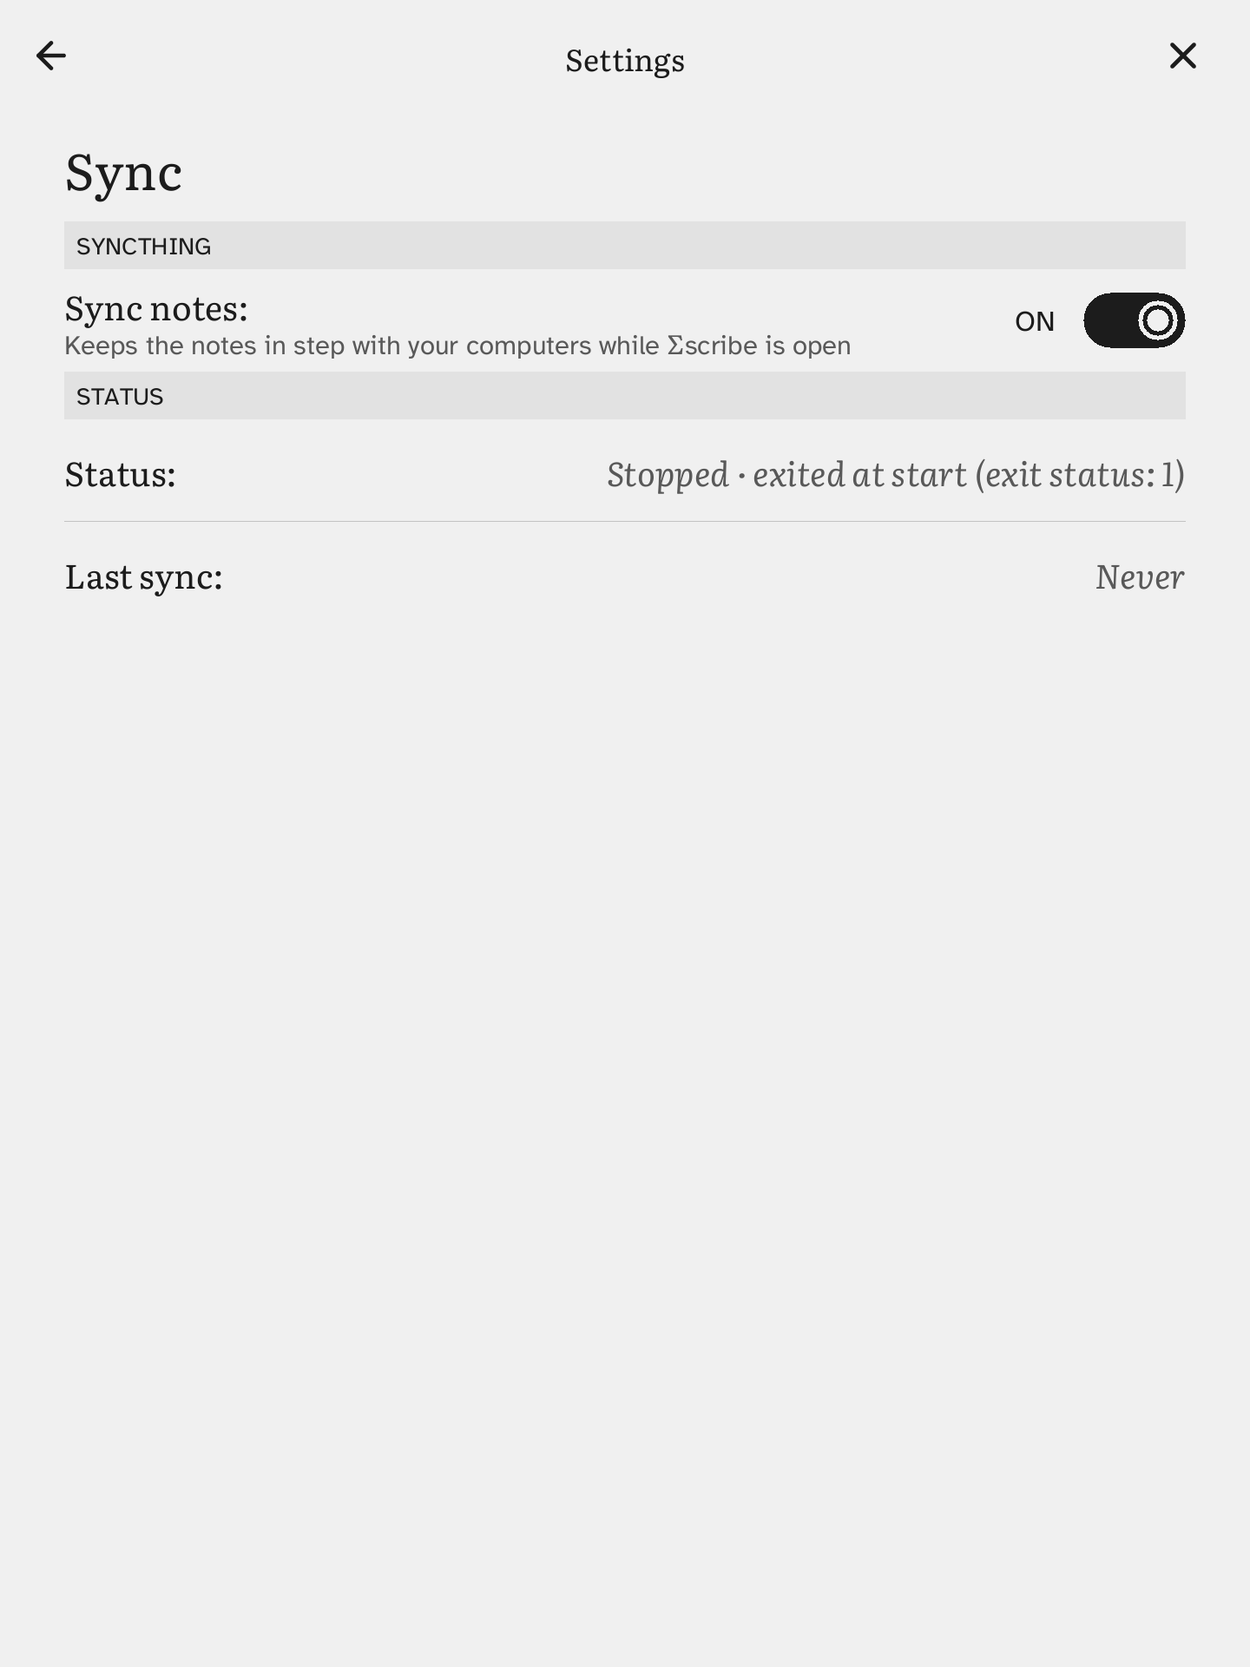
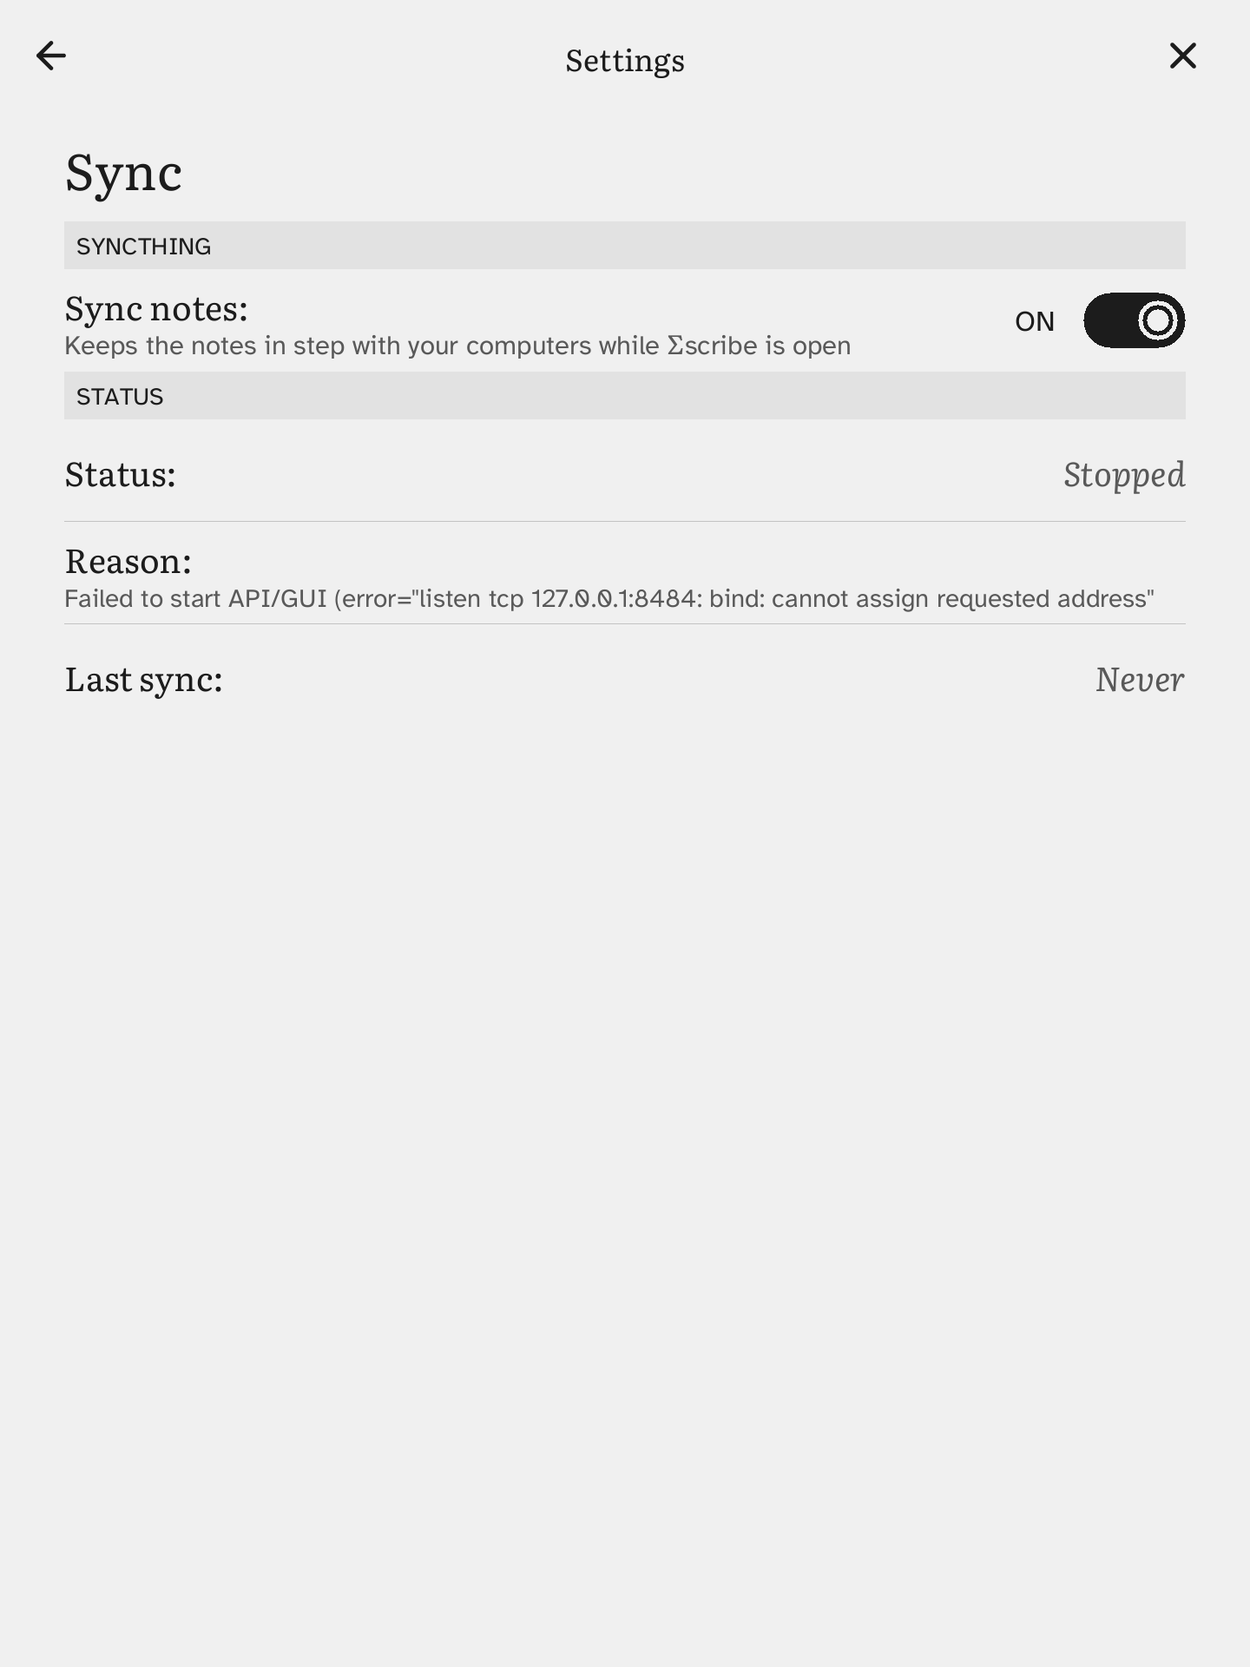
Sync: bring loopback up, say when it is down, show why Syncthing stopped
On the Forma, with Nickel stopped, lo has no 127.0.0.1, so Syncthing
could not bind its local API ("cannot assign requested address") and
Settings -> Sync ended at "Stopped · exited at start".

- launch.sh gives lo 127.0.0.1 when it has none (ifconfig, else ip) and
  logs net: lo lines; it never takes it down.
- The supervisor tries to bind 127.0.0.1 before each start; if it cannot
  it does not start Syncthing, reports "Loopback network is down" and
  looks again every 15 s.
- When Syncthing exits, the last ERR line it logged during that start is
  shown on a Reason row under Status.
- Two strings in the nine catalogs; tests for both; docs/sync.md and
  CHANGELOG updated.

diff --git a/crates/core/src/sync/supervisor.rs b/crates/core/src/sync/supervisor.rs
@@ -49,6 +49,17 @@ pub struct Config {
     /// child of its own, which a kill of the parent would leave behind. Only
     /// for the Kobo; on a desktop it could end the reader's own Syncthing.
     pub kill_by_name: bool,
+    /// Whether 127.0.0.1 can be bound; checked before every start. Tests
+    /// replace it.
+    pub loopback_probe: fn() -> bool,
+}
+
+/// Whether a socket can be bound on 127.0.0.1. On the Kobo the loopback
+/// interface is down unless the launcher brings it up; Syncthing then dies at
+/// start with "cannot assign requested address".
+#[must_use]
+pub fn loopback_up() -> bool {
+    std::net::TcpListener::bind((std::net::Ipv4Addr::LOCALHOST, 0)).is_ok()
 }
 
 impl Config {
@@ -65,6 +76,7 @@ impl Config {
             stop_wait: Duration::from_secs(8),
             retry_wait: Duration::from_secs(15),
             kill_by_name: false,
+            loopback_probe: loopback_up,
         }
     }
 }
@@ -225,6 +237,22 @@ fn worker(cfg: &Config, sh: &Shared, rx: &Receiver<Msg>) {
     }
     let mut failures = 0u32;
     loop {
+        // No point starting what cannot listen: say why, and look again in
+        // a while (it costs nothing and a later fix needs no restart).
+        if !(cfg.loopback_probe)() {
+            crate::warn!(
+                "sync",
+                "127.0.0.1 cannot be bound: the loopback network is down"
+            );
+            sh.put(View {
+                run: Run::NoLoopback,
+                ..View::default()
+            });
+            if wait_or_stop(rx, cfg.retry_wait) {
+                return;
+            }
+            continue;
+        }
         sh.put(View {
             run: Run::Starting,
             ..View::default()
@@ -317,6 +345,8 @@ fn spawn(cfg: &Config, key: &str) -> io::Result<Child> {
 fn session(cfg: &Config, sh: &Shared, rx: &Receiver<Msg>) -> Ended {
     let key = random_key();
     let client = Client::new(cfg.port, &key);
+    // Only what Syncthing logs from now on says why this start failed.
+    let log_from = std::fs::metadata(&cfg.log_file).map_or(0, |m| m.len());
     let mut child = match spawn(cfg, &key) {
         Ok(c) => c,
         Err(e) => return Ended::Died(format!("cannot start: {e}")),
@@ -332,7 +362,11 @@ fn session(cfg: &Config, sh: &Shared, rx: &Receiver<Msg>) -> Ended {
             Ok(_) | Err(RecvTimeoutError::Timeout) => {}
         }
         if let Ok(Some(st)) = child.try_wait() {
-            return Ended::Died(format!("exited at start ({st})"));
+            return Ended::Died(with_reason(
+                format!("exited at start ({st})"),
+                &cfg.log_file,
+                log_from,
+            ));
         }
         if client.get_json("/rest/system/ping").is_ok() {
             break;
@@ -368,10 +402,50 @@ fn session(cfg: &Config, sh: &Shared, rx: &Receiver<Msg>) -> Ended {
             Ok(Msg::Poll) | Err(RecvTimeoutError::Timeout) => {}
         }
         if let Ok(Some(st)) = child.try_wait() {
-            return Ended::Died(format!("exited ({st})"));
+            return Ended::Died(with_reason(
+                format!("exited ({st})"),
+                &cfg.log_file,
+                log_from,
+            ));
         }
         poller.poll(cfg, &client, sh);
     }
+}
+
+/// The last error Syncthing logged after byte `from` of its log (the one
+/// that explains the exit), else `what`. The exit status goes to the log.
+fn with_reason(what: String, log: &Path, from: u64) -> String {
+    crate::warn!("sync", "{what}");
+    last_error(log, from).unwrap_or(what)
+}
+
+/// Longest reason shown on the Sync page.
+const REASON_MAX: usize = 110;
+
+/// The message of the last `ERR` line Syncthing wrote at or after byte
+/// `from` of `log` (a log that is shorter now was rotated: read it all).
+/// Only the tail is read. `2026-10-28 15:23:44 ERR Failed to start (…)`
+/// gives `Failed to start (…)`.
+#[must_use]
+pub fn last_error(log: &Path, from: u64) -> Option<String> {
+    use std::io::{Read, Seek, SeekFrom};
+    let mut f = std::fs::File::open(log).ok()?;
+    let len = f.metadata().ok()?.len();
+    let from = if from > len { 0 } else { from };
+    let start = from.max(len.saturating_sub(16 * 1024));
+    f.seek(SeekFrom::Start(start)).ok()?;
+    let mut raw = Vec::new();
+    f.take(16 * 1024).read_to_end(&mut raw).ok()?;
+    let text = String::from_utf8_lossy(&raw);
+    let line = text.lines().rev().find_map(|l| {
+        let i = l.find(" ERR ")?;
+        Some(l[i + 5..].trim())
+    })?;
+    let mut out: String = line.chars().take(REASON_MAX).collect();
+    if line.chars().count() > REASON_MAX {
+        out.push('…');
+    }
+    (!out.is_empty()).then_some(out)
 }
 
 /// Asks Syncthing to shut down; kills it when it does not.

diff --git a/crates/core/tests/sync_supervisor.rs b/crates/core/tests/sync_supervisor.rs
@@ -493,3 +493,74 @@ fn stopping_while_it_is_still_starting_does_not_wait_for_it() {
     assert!(!Path::new(&format!("/proc/{pid}")).exists());
     let _ = std::fs::remove_dir_all(&dir);
 }
+
+#[test]
+fn a_down_loopback_is_reported_and_nothing_is_started() {
+    let dir = tmp("noloop");
+    let pidfile = dir.join("pid");
+    let mut cfg = config(
+        &dir,
+        1,
+        &format!("echo $$ > {}\nexec sleep 120", pidfile.display()),
+    );
+    cfg.loopback_probe = || false;
+    let sup = Supervisor::start(cfg);
+    let v = until(&sup, "no loopback", |v| v.run == Run::NoLoopback);
+    assert_eq!(v.status(), Status::NoLoopback);
+    // Still looking (retry_wait is 50 ms in tests), and never spawned.
+    std::thread::sleep(Duration::from_millis(300));
+    assert_eq!(sup.view().run, Run::NoLoopback);
+    assert!(
+        !pidfile.exists(),
+        "Syncthing was started without a loopback"
+    );
+    sup.stop();
+    let _ = std::fs::remove_dir_all(&dir);
+}
+
+#[test]
+fn the_last_error_syncthing_logged_explains_the_failure() {
+    let dir = tmp("reason");
+    let log = dir.join("log/syncthing.log");
+    std::fs::create_dir_all(log.parent().unwrap()).unwrap();
+    // An old error from an earlier run must not be blamed on this one.
+    std::fs::write(&log, "2026-10-27 09:00:00 ERR Old problem\n").unwrap();
+    let script = r#"for a in "$@"; do case $a in --log-file=*) f=${a#--log-file=};; esac; done
+echo '2026-10-28 15:23:44 INF Starting' >> "$f"
+echo '2026-10-28 15:23:45 ERR Failed to start API/GUI (error="listen tcp 127.0.0.1:8484: bind: cannot assign requested address")' >> "$f"
+exit 1"#;
+    let cfg = config(&dir, 1, script);
+    let sup = Supervisor::start(cfg);
+    let v = until(
+        &sup,
+        "a failure with its reason",
+        |v| matches!(&v.run, Run::Failed(w) if w.contains("cannot assign requested address")),
+    );
+    let Run::Failed(why) = v.run else {
+        unreachable!()
+    };
+    // The reason is Syncthing's own words, not the exit status.
+    assert!(!why.starts_with("exited"), "{why}");
+    assert!(why.contains("Failed to start API/GUI"), "{why}");
+    assert!(!why.contains("Old problem"), "{why}");
+    sup.stop();
+    let _ = std::fs::remove_dir_all(&dir);
+}
+
+#[test]
+fn last_error_reads_only_the_tail_after_the_offset_and_is_short() {
+    use sigma_core::sync::last_error;
+    let dir = tmp("tail");
+    let log = dir.join("l.log");
+    std::fs::write(&log, "t ERR first\nt INF ok\n").unwrap();
+    assert_eq!(last_error(&log, 0).as_deref(), Some("first"));
+    let len = std::fs::metadata(&log).unwrap().len();
+    assert_eq!(last_error(&log, len), None);
+    // A log shorter than the offset was rotated: read it all.
+    assert_eq!(last_error(&log, len + 100).as_deref(), Some("first"));
+    assert_eq!(last_error(&dir.join("missing"), 0), None);
+    std::fs::write(&log, format!("t ERR {}\n", "x".repeat(500))).unwrap();
+    let long = last_error(&log, 0).unwrap();
+    assert!(long.chars().count() <= 111 && long.ends_with('…'), "{long}");
+    let _ = std::fs::remove_dir_all(&dir);
+}

diff --git a/crates/render/src/options.rs b/crates/render/src/options.rs
@@ -1019,7 +1019,8 @@ fn sync_status_text(st: &sigma_core::sync::Status) -> String {
         Status::Off => tr("Off").into_owned(),
         Status::NotInstalled => tr("Syncthing is not installed").into_owned(),
         Status::Starting => tr("Starting").into_owned(),
-        Status::Failed(why) => format!("{} \u{b7} {why}", tr("Stopped")),
+        Status::Failed(_) => tr("Stopped").into_owned(),
+        Status::NoLoopback => tr("Loopback network is down").into_owned(),
         Status::NoDevices => tr("No devices yet").into_owned(),
         Status::NotConnected => tr("No device connected").into_owned(),
         Status::Scanning => tr("Scanning").into_owned(),
@@ -1029,7 +1030,17 @@ fn sync_status_text(st: &sigma_core::sync::Status) -> String {
             tr(&size_text(*bytes))
         ),
         Status::UpToDate => tr("Up to date").into_owned(),
-        Status::Error(why) => format!("{} \u{b7} {why}", tr("Error")),
+        Status::Error(_) => tr("Error").into_owned(),
+    }
+}
+
+/// The reason under a Stopped or Error status, in small print (it is
+/// Syncthing's own English text, not translated).
+fn sync_status_note(st: &sigma_core::sync::Status) -> Option<String> {
+    use sigma_core::sync::Status;
+    match st {
+        Status::Failed(why) | Status::Error(why) => Some(why.clone()),
+        _ => None,
     }
 }
 
@@ -1069,7 +1080,17 @@ fn sync_items(m: &OptionsModel<'_>) -> Vec<Item> {
         return out;
     }
     out.push(Item::Band("Status"));
-    out.push(info_row("Status", sync_status_text(&v.status())));
+    let status = v.status();
+    out.push(info_row("Status", sync_status_text(&status)));
+    // The reason has a row of its own: a note under Status would run under
+    // the value.
+    if let Some(why) = sync_status_note(&status) {
+        out.push(Item::Row(DRow {
+            label: Cow::Borrowed("Reason"),
+            kind: Kind::Info(String::new()),
+            note: Some(Cow::Owned(why)),
+        }));
+    }
     if !v.peers.is_empty() {
         out.push(info_row(
             "Devices",

diff --git a/crates/core/src/sync/model.rs b/crates/core/src/sync/model.rs
@@ -19,6 +19,9 @@ pub enum Run {
     Running,
     /// It could not start or kept stopping: the reason.
     Failed(String),
+    /// The loopback network (127.0.0.1) cannot be used, so Syncthing's local
+    /// API cannot start. Tried again every few seconds.
+    NoLoopback,
 }
 
 /// A device the notes folder is shared with.
@@ -118,6 +121,8 @@ pub enum Status {
     Starting,
     /// Stopped, with the reason.
     Failed(String),
+    /// The loopback network is down.
+    NoLoopback,
     /// Running, and no device is set up yet.
     NoDevices,
     /// Devices are set up and none is connected.
@@ -147,6 +152,7 @@ impl View {
             Run::NotInstalled => return Status::NotInstalled,
             Run::Starting => return Status::Starting,
             Run::Failed(e) => return Status::Failed(e.clone()),
+            Run::NoLoopback => return Status::NoLoopback,
             Run::Running => {}
         }
         if let Some(f) = &self.folder {

diff --git a/app/src/bin/sigma-emu.rs b/app/src/bin/sigma-emu.rs
@@ -1002,7 +1002,13 @@ fn demo_sync(name: &str) -> Option<sigma_core::sync::View> {
             ..View::default()
         },
         "failed" => View {
-            run: Run::Failed("exited at start (exit status: 1)".into()),
+            run: Run::Failed(
+                "Failed to start API/GUI (error=\"listen tcp 127.0.0.1:8484: bind: cannot assign requested address\")".into(),
+            ),
+            ..View::default()
+        },
+        "noloopback" => View {
+            run: Run::NoLoopback,
             ..View::default()
         },
         "alone" => running,

diff --git a/crates/core/src/sync/mod.rs b/crates/core/src/sync/mod.rs
@@ -15,7 +15,7 @@ pub mod rest;
 pub mod supervisor;
 
 pub use model::{FolderView, Peer, PendingDevice, PendingFolder, Run, Status, View, MAX_PENDING};
-pub use supervisor::{Cmd, Config, Supervisor};
+pub use supervisor::{last_error, loopback_up, Cmd, Config, Supervisor};
 
 use std::io;
 use std::path::Path;

diff --git a/CHANGELOG.md b/CHANGELOG.md
@@ -4,6 +4,7 @@ All notable changes to Σscribe. Versions are tagged after they pass on the Kobo
 
 ## Unreleased
 
+- **Fix: Sync did not start on the Forma (loopback down).** With Nickel stopped, the Forma's `lo` interface has no 127.0.0.1, so Syncthing could not bind its local API ("listen tcp 127.0.0.1:8484: bind: cannot assign requested address") and Settings → Sync ended at "Stopped · exited at start". The launcher now gives `lo` 127.0.0.1 when it has none (logged as `net: lo …`, never taken down). Σscribe also checks that 127.0.0.1 can be bound before it starts Syncthing: if not, the page says "Loopback network is down" and looks again every 15 s; and when Syncthing exits, the last error it logged during that start is shown on a Reason row under Status. One new string in the nine catalogs. Not yet tried on the Forma (`docs/sync.md` §12.11). Tests in `crates/core/tests/sync_supervisor.rs`.
 - **A Trash in Files: see what you deleted, restore it, or empty it.** While the trash holds something, Files has a third button beside New note and New folder: **Trash (n)**. It opens the Trash, a list of what Delete moved there, newest first, with each note's name, the folder it was in and when it was deleted ("in drafts · 2 h ago", "Yesterday", "3 days ago"). Tap a note to select it, then **Restore**: it goes back to the path it had, with its folders made again and its ink; if something now has that name, it comes back as `name (restored).md` (`(restored 2)` and so on) and nothing is overwritten. A deleted folder is one row and comes back whole. **Empty trash** takes two taps (the second reads "Tap again to empty") and removes everything under `.trash` for good, the only delete that cannot be undone. Restoring the last item, or emptying, returns to Files, and the Trash button goes. A restored note is in Files, Find and the to-do list at once. Each trash folder now holds an `.origin` file naming the path it had, so a folder holding one folder is not mistaken for a note in a folder; trash made by the previous build (no `.origin`) is still listed and restored as well as its layout allows. New `Library::list_trash`, `trash_len`, `restore`, `empty_trash`, `Trashed`; 15 new strings in the nine catalogs (Trash, Restore, Empty trash, the two-tap and status lines, "in {name}" and the relative times); emulator step `age-trash`, controls `Trash`, `Restore`, `Empty trash`; script `tests/emu/v1.17-trash.script`, screenshots in `docs/screenshots/v1.17/`. Tests: `crates/core/src/library.rs` (list, restore with name clash and nested folders, folder with one subfolder, ink, older trash, empty), `crates/render/src/files.rs`, `app/tests/trash.rs`.
 - **Display → Warmth: a warm-to-cool slider for the front light.** Eleven stops under Backlight, Cool on the left to Warm on the right, shown only when the device has the Forma's mixer file `/sys/class/backlight/tlc5947_bl/color`. It does what KOReader does for the Forma ("Frost"): the file takes 0 to 10 and is inverted, so warmth step *n* writes `10 - n` (KOReader `frontend/device/kobo/device.lua`, `KoboFrost`: `nl_min = 0`, `nl_max = 10`, `nl_inverted = true`; `frontend/device/sysfs_light.lua`, `setNaturalBrightness`); the mixer works whether or not the white light is on. `tlc5947_bl/brightness` (0 to 4096) is not touched. Unlike Backlight, the step **is saved** (`warmth=` in `.sigma-settings`, `keep` until you move the slider) and written to the mixer at start, because the stock reader never reads the mixer back; with nothing saved the light is left as it is and the slider shows what the file reads, else Cool. New `sigma_device::light::Warmth`, `Device::has_warmth` / `warmth_step` / `set_warmth`, `Change::Warmth`, `Settings::warmth`; three new strings (Warmth, Warm, Cool) in the nine catalogs; emulator steps `warmth N [unreadable]` and `expect-warmth`. **Not yet tried on the Forma**: whether the file reads back, and which end looks orange (`.ai/device-pass-s7.md` §7.4). Tests: `crates/device/src/light.rs`, `app/tests/warmth.rs`, `tests/emu/v1.17-warmth.script` (screenshots in `docs/screenshots/v1.17/`).
 - **Sync the notes with Syncthing (Settings → Sync).** The package now carries Syncthing v2.1.7 (the official 32-bit ARM build, unmodified; MPL-2.0, licence, authors and source notice in `.adds/sigma-scribe/syncthing/`). With Settings → Sync on, the app starts it while Σscribe is open, keeps its REST API on `127.0.0.1` behind a key made at each start, and stops it when sync is turned off or the app exits (the launcher also ends a leftover one). The page shows the state (starting, no device yet, not connected, scanning, syncing n files, up to date, or the error), how many devices are connected, the last sync, conflict files, and this device's ID in two readable lines. A computer that adds the Kobo by that ID appears under "Waiting for you" with **Accept / Ignore**; so does the folder it then offers (Accept shares the notes folder as that folder; a second computer is added to the same folder). Nothing is typed on the Kobo. `.stignore` is written once and leaves `.trash`, `.sigma-settings`, `.sigma-last-opened`, `.handwriting` and `.*.tmp` on the device. Ink and the scratch pad sync. **Notes changed underneath the app:** while sync is on the open note and the scratch pad are compared with the disk every second and reloaded when they changed and have no unsaved edit; and a save never writes over a file that changed since the app read or wrote it: your text goes to `note.conflict-<date>-<time>.md` beside it and the delivered text is loaded (before, the next keystroke overwrote it). Sync is off by default and per device (`sync=` in `.sigma-settings`). New `sigma_core::sync` (JSON reader, loopback REST client, status model, supervisor thread), `Change::Sync` and `Change::SyncAcceptDevice / SyncIgnoreDevice / SyncAcceptFolder / SyncIgnoreFolder`, `Kind::Block`, `scripts/fetch-syncthing.sh` (pins the release and its sha256), `SIGMA_SYNCTHING`, `SIGMA_SYNC_HOME` and `SIGMA_SYNC_PORT` for development; 29 new strings in the nine catalogs; no new crate. Tests: `crates/core/src/sync/`, `crates/core/tests/sync_supervisor.rs` (a fake REST API and a fake binary), `app/tests/sync_settings.rs`, `app/tests/sync_notes.rs`, `tests/emu/v1.16-sync.script` (screenshots in `docs/screenshots/v1.16/`). **Not yet run on the Forma**: `docs/sync.md` has the design, the battery and memory notes and the list to try.

diff --git a/docs/sync.md b/docs/sync.md
@@ -107,6 +107,17 @@ vfat volume; this is the first thing to watch on the Forma (§12).
   /rest/system/pause`.
 - **Network.** Sync needs the Wi-Fi the launcher leaves up (PR #89). Without
   it, Syncthing runs and reports no connection; nothing is lost.
+- **Loopback.** Syncthing's API listens on 127.0.0.1, which needs the `lo`
+  interface. With Nickel stopped the Forma's `lo` has no address (found on the
+  device, 2026-10-28: "listen tcp 127.0.0.1:8484: bind: cannot assign
+  requested address", three starts in a row, then Failed). The launcher now
+  gives `lo` 127.0.0.1 when it has none (`ifconfig lo 127.0.0.1 up`, else `ip`)
+  and logs `net: lo …` lines; it never takes it down. The supervisor also
+  tries to bind 127.0.0.1 before every start: if that fails it does not start
+  Syncthing, the page says **Loopback network is down**, and it looks again
+  every 15 s. When Syncthing does exit, the last `ERR` line it logged during
+  that start is shown on a Reason row under Status (the exit status goes to the `sync:` log), so the next
+  failure explains itself on screen.
 
 ## 4. The local API
 
@@ -352,6 +363,12 @@ did not touch the device. For `docs/device-checklist-prerelease.md`:
    a PEM). Local discovery on the same Wi-Fi does not need it.
 10. Syncing a few hundred notes the first time: does the app stay responsive
     (typing latency in `perf:` lines) while Syncthing hashes?
+11. Loopback (found on the Forma, fix not yet tried there): the launcher log has
+    `net: lo has no 127.0.0.1, bringing it up` then a `net: lo: inet …` line;
+    `.adds/sigma-scribe/log/syncthing.log` has no "cannot assign requested
+    address"; Settings → Sync leaves *Starting* for *No devices yet*. If `lo`
+    stays down, the page must say "Loopback network is down" (not "Stopped"),
+    and a Stopped status must show Syncthing's own last error under it.
 
 ## 13. Not done / later
 
